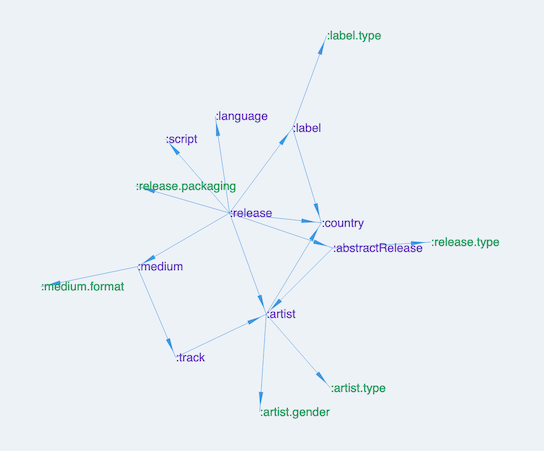
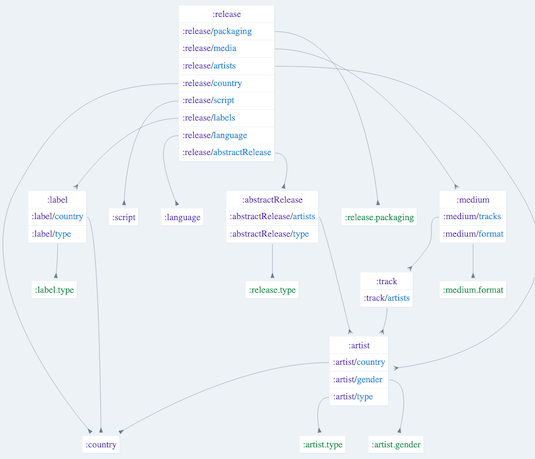
Render ERD with GraphViz
Instead of Vega/d3. GraphViz does a better job of layout, avoiding tangled nodes.

diff --git a/assets/index.html b/assets/index.html
@@ -6,6 +6,10 @@
         <meta name="viewport" content="width=device-width, initial-scale=1">
         <title>Schema Voyager</title>
         <link href="/styles.css" rel="stylesheet"/>
+        <script src="https://unpkg.com/@hpcc-js/wasm/dist/index.min.js"></script>
+        <script>
+            var hpccWasm = window["@hpcc-js/wasm"];
+        </script>
     </head>
     <body>
         <div id="app"></div>

diff --git a/README.md b/README.md
@@ -256,10 +256,6 @@ You may share or commit this file elsewhere.
 From the DataScript file, you can [generate a standalone HTML file](#view-schema-html) from which to view the data.
 This file is free of dependencies, so it can be committed, emailed or otherwise shared anywhere.
 
-Within the HTML there are diagrams of collections and their relationships.
-These can be exported to PNG or SVG.
-(Open the menu in the upper right of any diagram.)
-
 ## Usage
 
 OK, so how do you put it all together?
@@ -429,8 +425,5 @@ Whether using the single-file standalone HTML, or the multi-file option above, f
 * [Tailwind CSS](https://tailwindcss.com/) makes writing CSS _fun_.
   Along with assistance from [PostCSS](https://postcss.org/) and [PurgeCSS](https://purgecss.com/) it creates amazingly small CSS files.
   And the pages look nice, right?
-* [Oz](https://github.com/metasoarous/oz), which creates the diagrams, is a great project, as is [Vega](https://vega.github.io/vega/) which underpins it.
-  Still, I'm not certain it's the right choice for Schema Voyager.
-  Force-directed graphs are a bit messy for an ERD.
 * [shadow-cljs](http://shadow-cljs.org/) makes it a joy to write CLJS files alongside CLJ files.
   Several client/server interaction tasks I had been putting off turned out to be trivial with shadow-cljs.
